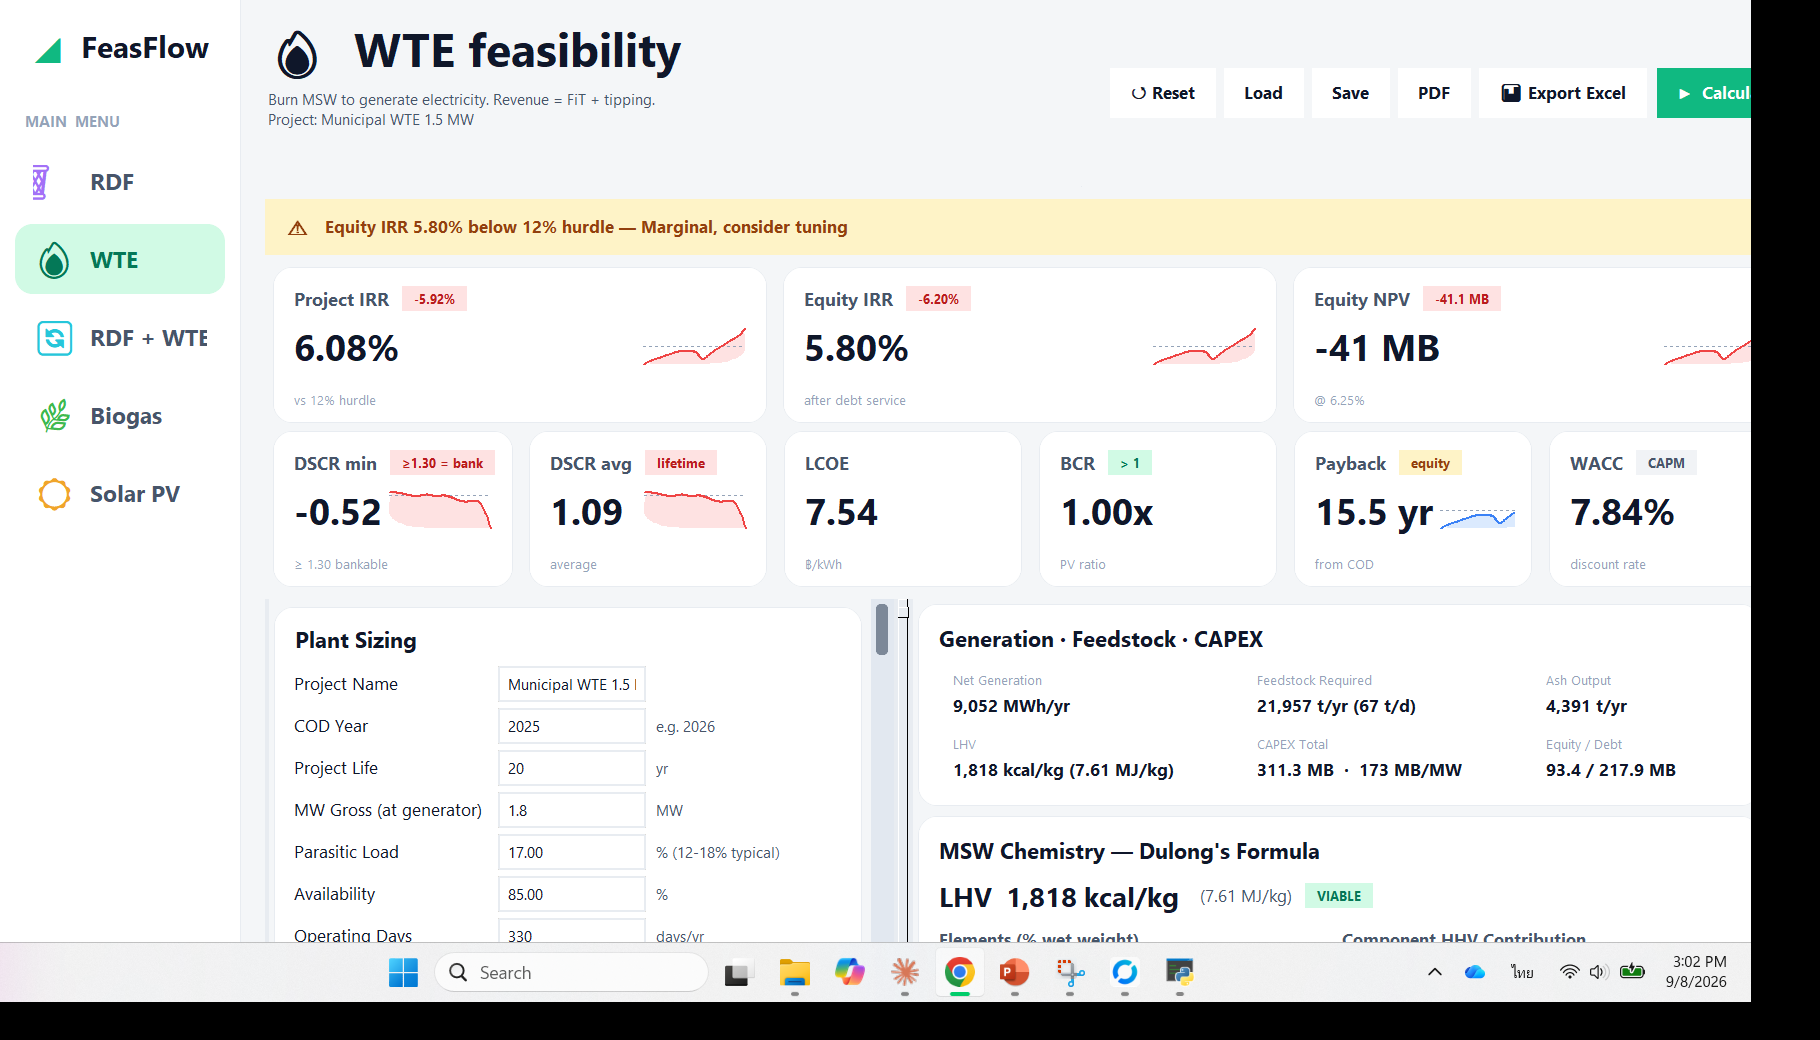
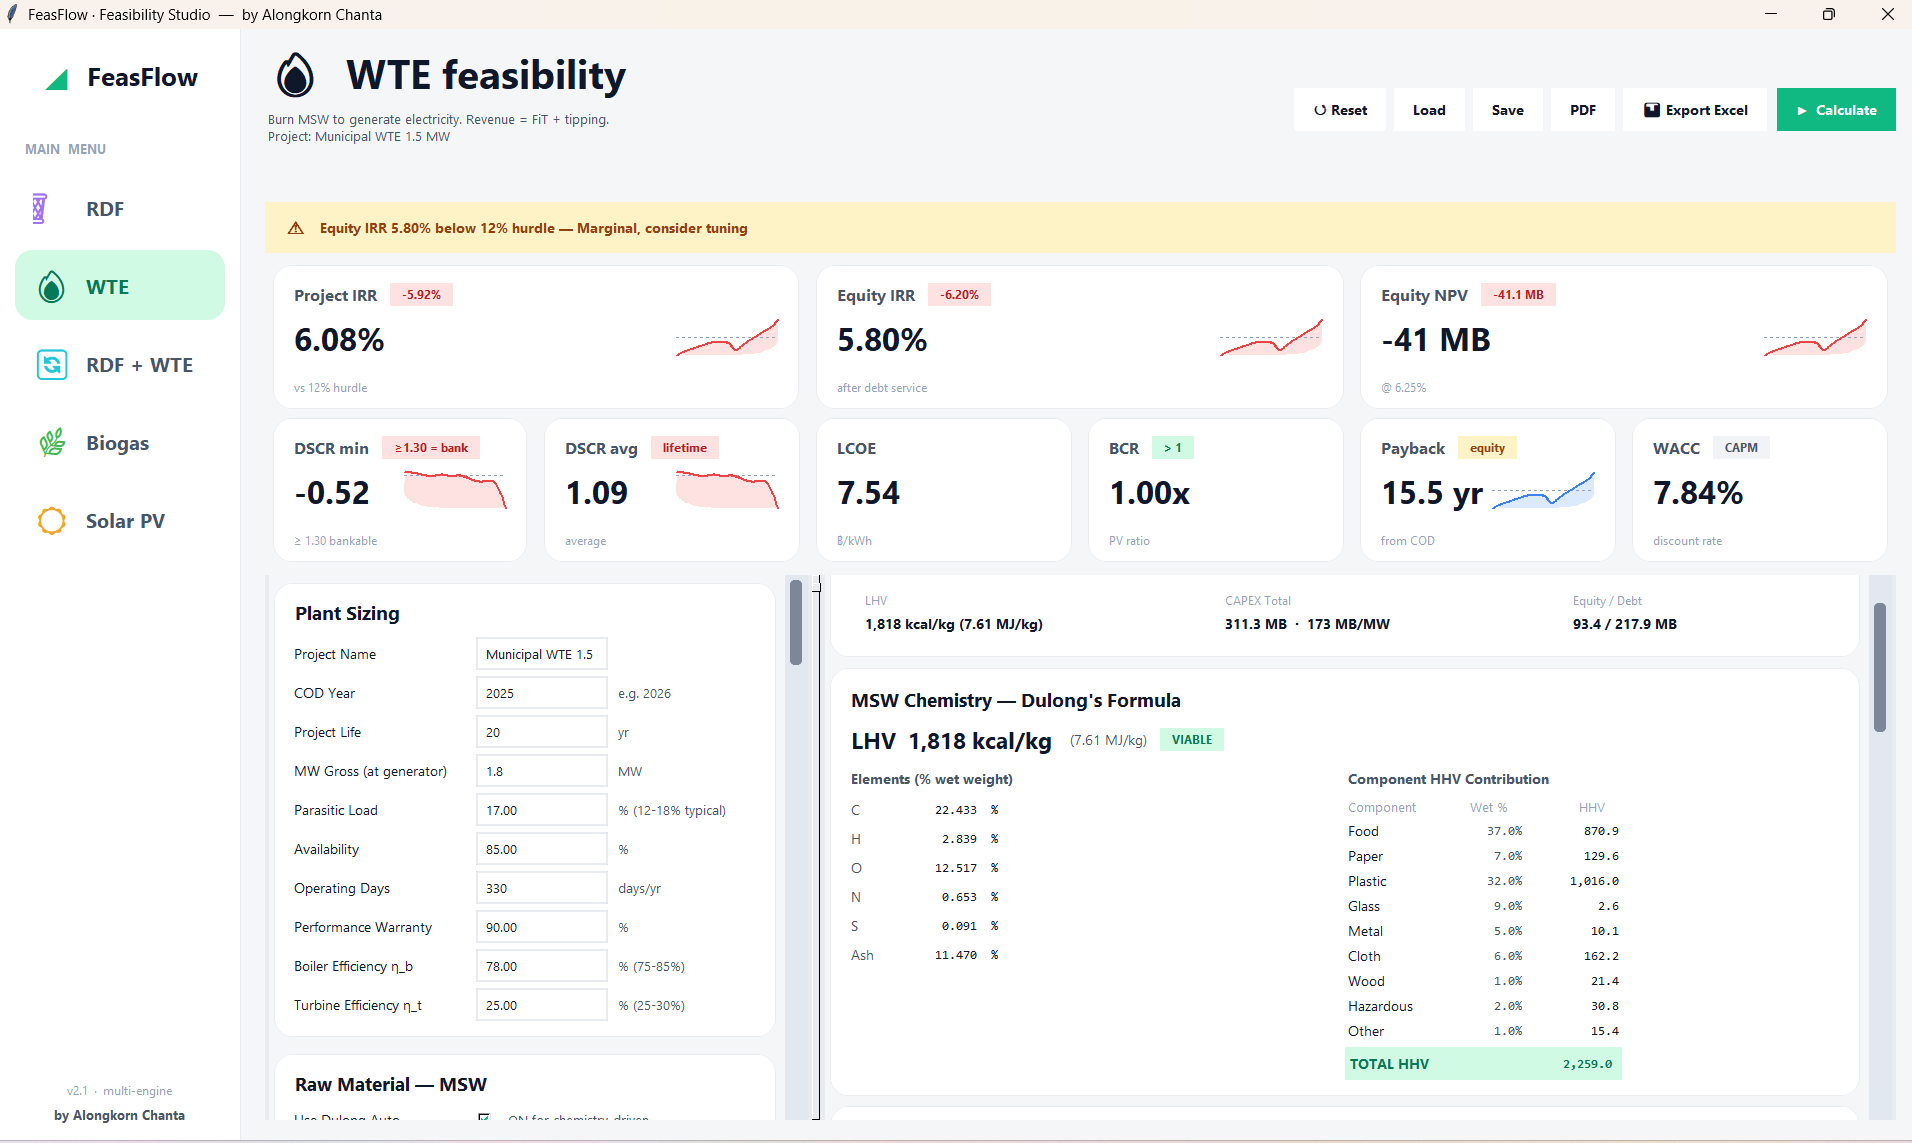
Use real GUI screenshots in README (overview, charts, biogas)
- Replace placeholder captures with actual app screenshots
- README screenshots: financial visualizations + biogas chemistry chain

diff --git a/README.md b/README.md
@@ -57,13 +57,20 @@ The calculation chain is verified formula-by-formula against textbook standards
 
 ## Screenshots
 
-| Different engine (Solar PV) | About / author |
-|---|---|
-| ![Solar PV](docs/gui-solar.png) | ![About](docs/gui-about.png) |
+**Financial visualizations** — revenue composition + NPAT, cumulative cash flow
+(with the payback marker), DSCR profile against the 1.30 bank line, and the
+year-by-year OPEX breakdown:
 
-KPI cards carry meaningful sparklines: return/NPV/payback show **cumulative cash
-flow** (crossing the dashed 0-line = paid back); DSCR shows the **year-by-year
-profile** against the dashed 1.30 bank threshold.
+![Visualizations](docs/gui-charts.png)
+
+**Biogas engine** — the transparent COD → CH₄ → biogas → kWh chemistry chain
+that drives generation, feedstock and CAPEX:
+
+![Biogas chemistry chain](docs/gui-biogas.png)
+
+KPI cards also carry meaningful sparklines: return / NPV / payback show
+**cumulative cash flow** (crossing the dashed 0-line = paid back); DSCR shows the
+**year-by-year profile** against the dashed 1.30 bank threshold.
 
 ## Run it
 
